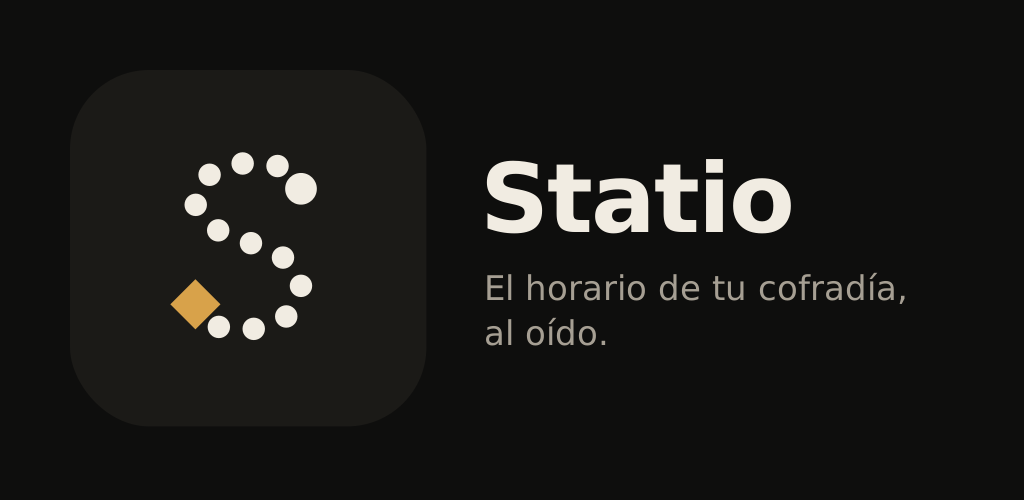
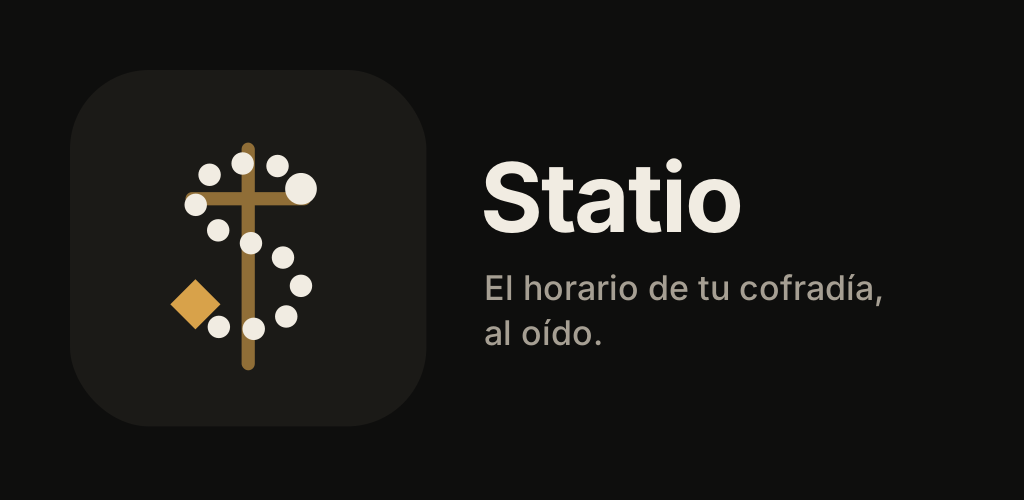
Icono Statio: cruz dorada tenue detrás de la S; generador único de iconos (marca/generar.py)
Claude-Session: https://claude.ai/code/session_01LHfpqUGgV2S35Toz2vFxnU

diff --git a/web/index.html b/web/index.html
@@ -11,7 +11,7 @@
 body{margin:0;background:var(--fondo);color:var(--tinta);line-height:1.5}
 .c{max-width:980px;margin:0 auto;padding:0 20px}
 header{display:flex;align-items:center;gap:10px;padding:22px 0;font-weight:600}
-header svg{width:28px;height:28px}
+header svg{width:24px;height:32px}
 header a{margin-left:auto;color:var(--tinta2);text-decoration:none;font-weight:500}
 h1{font-size:clamp(36px,6vw,60px);line-height:1.04;letter-spacing:-.025em;margin:72px 0 18px;max-width:14ch}
 .lead{font-size:19px;color:var(--tinta2);max-width:52ch;margin:0 0 36px}
@@ -27,7 +27,7 @@ footer a{color:var(--tinta2)}
 </head>
 <body>
 <div class="c">
-  <header><span style="width:30px;height:30px;color:#F1ECE2;display:inline-flex"><svg viewBox="26 28 58 58" aria-hidden="true"><circle cx="70.0" cy="36.0" r="4.8" fill="currentColor"/><circle cx="62.89" cy="29.1" r="3.4" fill="currentColor"/><circle cx="52.32" cy="28.33" r="3.4" fill="currentColor"/><circle cx="42.3" cy="31.75" r="3.4" fill="currentColor"/><circle cx="38.1" cy="40.86" r="3.4" fill="currentColor"/><circle cx="44.91" cy="48.59" r="3.4" fill="currentColor"/><circle cx="54.84" cy="52.48" r="3.4" fill="currentColor"/><circle cx="64.54" cy="56.84" r="3.4" fill="currentColor"/><circle cx="69.99" cy="65.41" r="3.4" fill="currentColor"/><circle cx="65.53" cy="74.69" r="3.4" fill="currentColor"/><circle cx="55.68" cy="78.44" r="3.4" fill="currentColor"/><circle cx="45.11" cy="77.85" r="3.4" fill="currentColor"/><path d="M38 63.4L45.6 71L38 78.6L30.4 71Z" fill="var(--acento,#D8A24A)"/></svg></span>Statio<a href="panel/">Panel de hermandades</a></header>
+  <header><span style="width:24px;height:32px;color:#F1ECE2;display:inline-flex"><svg viewBox="26 18 58 76" aria-hidden="true"><g fill="var(--acento,#D8A24A)" opacity="0.62"><rect x="52.0" y="22" width="4" height="69" rx="2.0"/><rect x="35.0" y="37.0" width="38" height="4" rx="2.0"/></g><circle cx="70.0" cy="36.0" r="4.8" fill="currentColor"/><circle cx="62.89" cy="29.1" r="3.4" fill="currentColor"/><circle cx="52.32" cy="28.33" r="3.4" fill="currentColor"/><circle cx="42.3" cy="31.75" r="3.4" fill="currentColor"/><circle cx="38.1" cy="40.86" r="3.4" fill="currentColor"/><circle cx="44.91" cy="48.59" r="3.4" fill="currentColor"/><circle cx="54.84" cy="52.48" r="3.4" fill="currentColor"/><circle cx="64.54" cy="56.84" r="3.4" fill="currentColor"/><circle cx="69.99" cy="65.41" r="3.4" fill="currentColor"/><circle cx="65.53" cy="74.69" r="3.4" fill="currentColor"/><circle cx="55.68" cy="78.44" r="3.4" fill="currentColor"/><circle cx="45.11" cy="77.85" r="3.4" fill="currentColor"/><path d="M38,63.4L45.6,71L38,78.6L30.4,71Z" fill="var(--acento,#D8A24A)"/></svg></span>Statio<a href="panel/">Panel de hermandades</a></header>
 
   <h1>El horario de tu cofradía, al oído.</h1>
   <p class="lead">Cada fiscal pulsa el botón de sus auriculares y escucha la hora y dónde tiene que estar su sección. Si se sale con retraso, Statio recalcula el recorrido para llegar a la carrera oficial en hora.</p>

diff --git a/web/panel/index.html b/web/panel/index.html
@@ -97,7 +97,7 @@ const SUPABASE_URL = "https://sujxkxghtwesotegfvth.supabase.co";
 const SUPABASE_KEY = "sb_publishable_Y6RsOO1DkouE3ixhTCmA-A_Q6V8SwlJ";
 const db = supabase.createClient(SUPABASE_URL, SUPABASE_KEY);
 
-const MARCA = `<svg style="width:26px;height:26px" viewBox="26 28 58 58" aria-hidden="true"><circle cx="70.0" cy="36.0" r="4.8" fill="currentColor"/><circle cx="62.89" cy="29.1" r="3.4" fill="currentColor"/><circle cx="52.32" cy="28.33" r="3.4" fill="currentColor"/><circle cx="42.3" cy="31.75" r="3.4" fill="currentColor"/><circle cx="38.1" cy="40.86" r="3.4" fill="currentColor"/><circle cx="44.91" cy="48.59" r="3.4" fill="currentColor"/><circle cx="54.84" cy="52.48" r="3.4" fill="currentColor"/><circle cx="64.54" cy="56.84" r="3.4" fill="currentColor"/><circle cx="69.99" cy="65.41" r="3.4" fill="currentColor"/><circle cx="65.53" cy="74.69" r="3.4" fill="currentColor"/><circle cx="55.68" cy="78.44" r="3.4" fill="currentColor"/><circle cx="45.11" cy="77.85" r="3.4" fill="currentColor"/><path d="M38 63.4L45.6 71L38 78.6L30.4 71Z" fill="var(--acento,#D8A24A)"/></svg>`;
+const MARCA = `<svg style="width:22px;height:28px" viewBox="26 18 58 76" aria-hidden="true"><g fill="var(--acento,#D8A24A)" opacity="0.62"><rect x="52.0" y="22" width="4" height="69" rx="2.0"/><rect x="35.0" y="37.0" width="38" height="4" rx="2.0"/></g><circle cx="70.0" cy="36.0" r="4.8" fill="currentColor"/><circle cx="62.89" cy="29.1" r="3.4" fill="currentColor"/><circle cx="52.32" cy="28.33" r="3.4" fill="currentColor"/><circle cx="42.3" cy="31.75" r="3.4" fill="currentColor"/><circle cx="38.1" cy="40.86" r="3.4" fill="currentColor"/><circle cx="44.91" cy="48.59" r="3.4" fill="currentColor"/><circle cx="54.84" cy="52.48" r="3.4" fill="currentColor"/><circle cx="64.54" cy="56.84" r="3.4" fill="currentColor"/><circle cx="69.99" cy="65.41" r="3.4" fill="currentColor"/><circle cx="65.53" cy="74.69" r="3.4" fill="currentColor"/><circle cx="55.68" cy="78.44" r="3.4" fill="currentColor"/><circle cx="45.11" cy="77.85" r="3.4" fill="currentColor"/><path d="M38,63.4L45.6,71L38,78.6L30.4,71Z" fill="var(--acento,#D8A24A)"/></svg>`;
 
 const E = { usuario: null, superadmin: false, hermandades: [], hid: null, vista: "itinerarios", cache: {} };
 const $ = (s, r = document) => r.querySelector(s);

diff --git a/android/app/src/main/kotlin/com/agusmltkd/compas/ui/pantallas/Activacion.kt b/android/app/src/main/kotlin/com/agusmltkd/compas/ui/pantallas/Activacion.kt
@@ -58,9 +58,14 @@ private val PuntosMarca = listOf(70.0f to 36.0f, 62.89f to 29.1f, 52.32f to 28.3
 @Composable
 fun Marca(tamano: Dp = 44.dp, tinta: Color = Compas.p.tinta, acento: Color = Compas.p.acento) {
     Canvas(Modifier.size(tamano)) {
-        // El símbolo ocupa x 30..80, y 28..86 de la caja de 108: lo encuadramos.
-        val k = size.minDimension / 58f
-        fun pos(x: Float, y: Float) = Offset((x - 26f) * k, (y - 28f) * k)
+        // El símbolo (S de x 30..80, y 28..86; la cruz sube a y 22) se encuadra en la caja de 108.
+        val k = size.minDimension / 72f
+        fun pos(x: Float, y: Float) = Offset((x - 18f) * k, (y - 20f) * k)
+        // Cruz dorada tenue detrás de la S (mismas medidas que marca/generar.py).
+        val cruz = acento.copy(alpha = 0.62f)
+        val g = 4f * k
+        drawRoundRect(cruz, topLeft = pos(52f, 22f), size = androidx.compose.ui.geometry.Size(g, 69f * k), cornerRadius = androidx.compose.ui.geometry.CornerRadius(g / 2))
+        drawRoundRect(cruz, topLeft = pos(35f, 37f), size = androidx.compose.ui.geometry.Size(38f * k, g), cornerRadius = androidx.compose.ui.geometry.CornerRadius(g / 2))
         PuntosMarca.dropLast(1).forEachIndexed { i, (x, y) ->
             drawCircle(tinta, radius = (if (i == 0) 4.8f else 3.4f) * k, center = pos(x, y))
         }

diff --git a/marca/generar.py b/marca/generar.py
@@ -1,0 +1,115 @@
+"""
+Genera todos los iconos de Statio a partir de una sola definición.
+
+    python3 marca/generar.py        (necesita: pip install cairosvg)
+
+El símbolo: una S hecha de paradas (el recorrido) que termina en el punto
+de horario fijo (rombo dorado), con una cruz dorada tenue detrás.
+Coordenadas en una caja de 108 x 108 (la del icono adaptativo de Android).
+"""
+import json
+from pathlib import Path
+
+RAIZ = Path(__file__).resolve().parent.parent
+P = json.loads((RAIZ / "marca" / "puntos.json").read_text())
+
+TINTA, ORO, FONDO_ICONO, FONDO_OSCURO = "#F1ECE2", "#D8A24A", "#1B1A17", "#0E0E0D"
+TINTA_CLARA, ORO_CLARO = "#1B1A17", "#9C6A17"
+
+# Cruz: palo de y=22 a y=91, brazo de 38 de ancho a la altura y=39, grosor 4, 62 % de opacidad.
+CRUZ = dict(cx=54, top=22, bot=91, brazo_y=39, ancho=38, w=4, opacidad=0.62)
+R_PRIMERO, R_PUNTO, ROMBO = 4.8, 3.4, 7.6
+
+
+def rombo_d(x, y, s=ROMBO):
+    return f"M{x},{y - s}L{x + s},{y}L{x},{y + s}L{x - s},{y}Z"
+
+
+def circulo_d(x, y, r):
+    return f"M{x},{y}m-{r},0a{r},{r} 0,1 1,{2 * r},0a{r},{r} 0,1 1,-{2 * r},0"
+
+
+def rect_d(x, y, w, h):
+    return f"M{x},{y}h{w}v{h}h-{w}Z"
+
+
+def cruz_rects():
+    c = CRUZ
+    return [
+        (c["cx"] - c["w"] / 2, c["top"], c["w"], c["bot"] - c["top"]),
+        (c["cx"] - c["ancho"] / 2, c["brazo_y"] - c["w"] / 2, c["ancho"], c["w"]),
+    ]
+
+
+# ---------------------------------------------------------------- SVG
+def svg_simbolo(tinta=TINTA, oro=ORO, cruz=True, fondo=None, rx=24, escala=1.0):
+    partes = []
+    if fondo:
+        partes.append(f'<rect width="108" height="108" rx="{rx}" fill="{fondo}"/>')
+    g = []
+    if cruz:
+        r = "".join(f'<rect x="{x}" y="{y}" width="{w}" height="{h}" rx="{CRUZ["w"] / 2}"/>' for x, y, w, h in cruz_rects())
+        g.append(f'<g fill="{oro}" opacity="{CRUZ["opacidad"]}">{r}</g>')
+    g += [f'<circle cx="{x}" cy="{y}" r="{R_PRIMERO if i == 0 else R_PUNTO}" fill="{tinta}"/>' for i, (x, y) in enumerate(P[:-1])]
+    g.append(f'<path d="{rombo_d(*P[-1])}" fill="{oro}"/>')
+    contenido = "".join(g)
+    if escala != 1.0:
+        contenido = f'<g transform="translate(54 56.5) scale({escala}) translate(-54 -56.5)">{contenido}</g>'
+    partes.append(contenido)
+    return '<svg xmlns="http://www.w3.org/2000/svg" viewBox="0 0 108 108">' + "".join(partes) + "</svg>"
+
+
+# ---------------------------------------------------------------- Android
+def vector(tinta, oro, cruz=True, ancho=108, alto=108, vw=108, vh=108, tx=0, ty=0, alfa_cruz=None):
+    alfa = CRUZ["opacidad"] if alfa_cruz is None else alfa_cruz
+    lineas = []
+    if cruz:
+        for x, y, w, h in cruz_rects():
+            lineas.append(f'        <path android:fillColor="{oro}" android:fillAlpha="{alfa}" android:pathData="{rect_d(x, y, w, h)}" />')
+    for i, (x, y) in enumerate(P[:-1]):
+        lineas.append(f'        <path android:fillColor="{tinta}" android:pathData="{circulo_d(x, y, R_PRIMERO if i == 0 else R_PUNTO)}" />')
+    lineas.append(f'        <path android:fillColor="{oro}" android:pathData="{rombo_d(*P[-1])}" />')
+    return (
+        '<?xml version="1.0" encoding="utf-8"?>\n'
+        "<!-- Statio: S de paradas con cruz detrás. Generado por marca/generar.py; no editar a mano. -->\n"
+        '<vector xmlns:android="http://schemas.android.com/apk/res/android"\n'
+        f'    android:width="{ancho}dp" android:height="{alto}dp" android:viewportWidth="{vw}" android:viewportHeight="{vh}">\n'
+        f'    <group android:translateX="{tx}" android:translateY="{ty}">\n' + "\n".join(lineas) + "\n    </group>\n</vector>\n"
+    )
+
+
+def main():
+    import cairosvg
+
+    res = RAIZ / "android/app/src/main/res/drawable"
+    (res / "ic_marca.xml").write_text(vector(TINTA, ORO))
+    (res / "ic_monocromo.xml").write_text(vector("#FFFFFFFF", "#FFFFFFFF", alfa_cruz=0.45))
+    (res / "ic_splash.xml").write_text(vector(TINTA_CLARA, "#C8963E"))
+    # La notificación es monocroma y diminuta: sin cruz para que la S se lea.
+    (res / "ic_notificacion.xml").write_text(vector("#FFFFFFFF", "#FFFFFFFF", cruz=False, ancho=24, alto=24, vw=58, vh=58, tx=-25, ty=-27))
+
+    m = RAIZ / "marca"
+    (m / "statio-icono.svg").write_text(svg_simbolo(fondo=FONDO_ICONO))
+    (m / "statio-icono-claro.svg").write_text(svg_simbolo(TINTA_CLARA, ORO_CLARO, fondo="#F5F2EC"))
+    (m / "statio-simbolo.svg").write_text(svg_simbolo(TINTA_CLARA, ORO_CLARO))
+    (RAIZ / "web/favicon.svg").write_text(svg_simbolo(fondo=FONDO_ICONO))
+
+    play = svg_simbolo(fondo=FONDO_ICONO, rx=0, escala=1.3)
+    (m / "statio-play-512.svg").write_text(play)
+    cairosvg.svg2png(bytestring=play.encode(), write_to=str(m / "statio-play-512.png"), output_width=512, output_height=512)
+
+    interior = svg_simbolo(fondo=FONDO_ICONO).split(">", 1)[1].rsplit("</svg>", 1)[0]
+    destacado = f"""<svg xmlns="http://www.w3.org/2000/svg" width="1024" height="500" viewBox="0 0 1024 500">
+<rect width="1024" height="500" fill="{FONDO_OSCURO}"/>
+<g transform="translate(70 70) scale(3.3)">{interior}</g>
+<text x="480" y="232" font-family="Inter, DejaVu Sans, sans-serif" font-size="96" font-weight="600" fill="{TINTA}" letter-spacing="-2">Statio</text>
+<text x="484" y="300" font-family="Inter, DejaVu Sans, sans-serif" font-size="34" fill="#A69F93">El horario de tu cofradía,</text>
+<text x="484" y="345" font-family="Inter, DejaVu Sans, sans-serif" font-size="34" fill="#A69F93">al oído.</text>
+</svg>"""
+    (m / "statio-grafico-destacado.svg").write_text(destacado)
+    cairosvg.svg2png(bytestring=destacado.encode(), write_to=str(m / "statio-grafico-destacado-1024x500.png"))
+    print("Iconos generados.")
+
+
+if __name__ == "__main__":
+    main()
